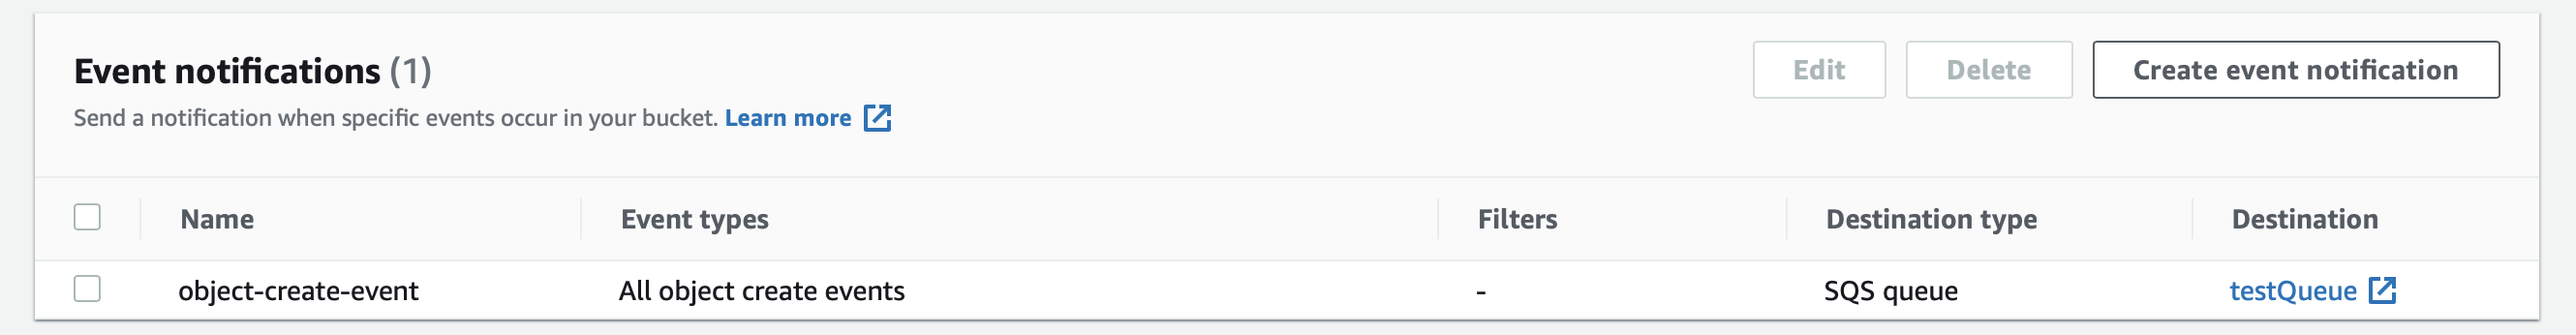
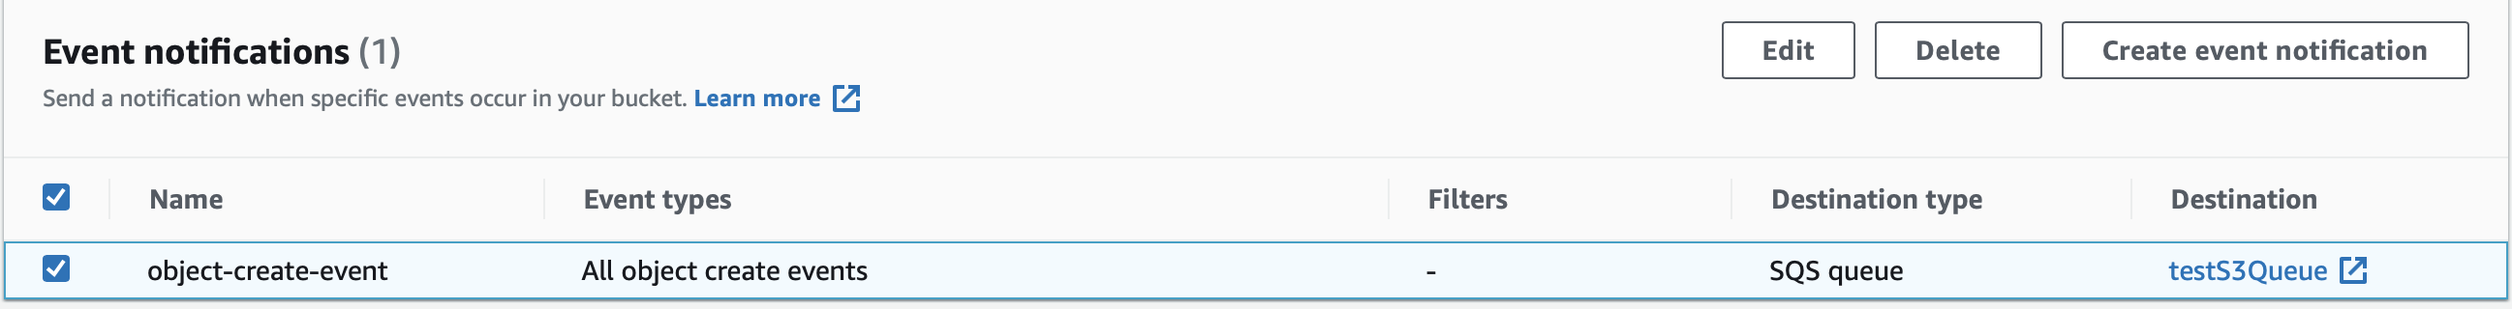
minor edits

diff --git a/_posts/2021-04-25-spring-cloud-aws-sqs.md b/_posts/2021-04-25-spring-cloud-aws-sqs.md
@@ -28,7 +28,7 @@ The producer will continue to function normally even if the consumer application
 
 The SQS queue used for storing messages is highly scalable, and reliable with its storage distributed across multiple servers. The SQS queue can be of two types: 
 1. **Standard**:  Standard queues have maximum throughput, best-effort ordering, and at least once delivery. 
-2. **First In First Out(FIFO)**:  FIFO queues guarantee the messages to be processed exactly once by the receiver, in the order that they are sent.
+2. **First In First Out(FIFO)**: When a high volume of transactions are received, messages might get delivered more than one once, which might require complex handling of message sequence. For this scenario, we use FIFO queues where the messages are delivered in a `First in first out` manner. The message is delivered only once and is made available only till the consumer processes it. After the message is processed by the consumer, it is deleted thereby preventing chances of duplicate processing.
 
 Spring Cloud AWS is built as a collection of modules, with each module being responsible for providing integration with an AWS Service.  
 
@@ -173,11 +173,10 @@ public QueueMessagingTemplate queueMessagingTemplate(
 ```
 Then, we can send the messages using the `convertAndSend` method:
 ```java
+@Slf4j
 @Service
 public class MessageSenderWithTemplate {
   private static final String TEST_QUEUE = "testQueue";
-
-  private static final Logger logger = LoggerFactory.getLogger(MessageSenderWithTemplate.class);
 
   @Autowired
   private QueueMessagingTemplate messagingTemplate;
@@ -195,17 +194,45 @@ public class MessageSenderWithTemplate {
 ```
 In this example, we first create a message with the `MessageBuilder` class, similar to our previous example, and use the `convertAndSend` method to send the message to the queue.
 
+### Sending Message to FIFO Queue
+For sending a message to a FIFO Queue, we need to add two fields: `messageGroupId` and `messageDeduplicationId` in the header like in the example below:
+
+```java
+@Slf4j
+@Service
+public class MessageSenderWithTemplate {
+    private static final String TEST_QUEUE = "testQueue";
+
+    @Autowired
+    private QueueMessagingTemplate messagingTemplate;
+  
+    public void sendToFifoQueue(final String messagePayload, final String messageGroupID, final String messageDedupID) {
+      
+          Message<String> msg = MessageBuilder.withPayload(messagePayload)
+              .setHeader("message-group-id", messageGroupID)
+              .setHeader("message-deduplication-id", messageDedupID)
+              .build();
+              messagingTemplate.convertAndSend(TEST_QUEUE, msg);
+              log.info("message sent");
+    }  
+}
+
+```
+Here we are using the `MessageBuilder` class to add the two header fields required for creating a message for sending to a FIFO queue.
+
 ## Receiving a Message
 
-We need to check the SQS queue repeatedly for the availability of messages. Messages can be received in two ways from the SQS queue:
-1. using the receive methods of the `QueueMessagingTemplate`
-2. with annotation-driven listener endpoints. This is the more convenient way of receiving messages.
+Let us now look at how we can receive messages from an SQS queue. There are two ways to receive messages from SQS:
+1. **Short Polling**: Short polling returns immediately, even if the message queue being polled is empty. For short polling, we call the `receive` method of `QueueMessagingTemplate` in an infinite loop that regularly polls the queue. The `receive` method returns empty if there are no messages in the queue.
+2. **Long Polling**: long-polling does not return a response until a message arrives in the message queue, or the long poll times out. We do this with the `SQSListener` annotation.
 
- We annotate a method with `SqsListener` annotation for subscribing to a queue. The `SqsListener` annotation adds polling behavior to the method and also provides support for serializing and converting the received message to a Java object as shown here:
+In most cases, Amazon SQS Long-Polling is preferable to short polling since Long-polling requests let the queue consumers receive messages as soon as they arrive in the queue while reducing the number of empty responses returned.
+
+We annotate a method with `SqsListener` annotation for subscribing to a queue. The `SqsListener` annotation adds polling behavior to the method and also provides support for serializing and converting the received message to a Java object as shown here:
  ```java
+ @Slf4j
 @Service
 public class MessageReceiver {
-  private static final Logger logger = LoggerFactory.getLogger(MessageReceiver.class.getName());
 
   @SqsListener(value = "testQueue", deletionPolicy = SqsMessageDeletionPolicy.ON_SUCCESS)
   public void receiveMessage(String message, 
@@ -214,12 +241,12 @@ public class MessageReceiver {
   }
 }
  ```
-In this example, the SQS message payload is serialized and passed to our `receiveMessage` method. We have also defined the deletion policy `ON_SUCCESS` for acknowledging the message when no exception is thrown.
+In this example, the SQS message payload is serialized and passed to our `receiveMessage` method. We have also defined the deletion policy `ON_SUCCESS` for acknowledging the message when no exception is thrown. A deletion policy is used to define when a message must be deleted after the listener method is called. For an overview of the available deletion policies, refer to the Java documentation of [SqsMessageDeletionPolicy](https://javadoc.io/doc/org.springframework.cloud/spring-cloud-aws-messaging/2.1.3.RELEASE/org/springframework/cloud/aws/messaging/listener/SqsMessageDeletionPolicy.html).
 
 ## Working with Object Messages
 So far we have used payloads of type `string`. We can also send object payloads by serializing them to a JSON `string`. We do this by using the `MessageConverter` interface which defines a simple contract for conversion between Java objects and SQS messages. The default implementation is `SimpleMessageConverter` which unwraps the message payload if it matches the target type. 
 
-Let us define a model to represent a `signup` event:
+Let us define another SQS queue named `testObjectQueue` and define a model to represent a `signup` event:
 
 ```java
 @Data
@@ -238,7 +265,7 @@ Now let us change our `receiveMessage` method to receive the `SignupEvent` :
 @Service
 public class MessageReceiver {
 
-  @SqsListener(value = "testQueue", deletionPolicy = SqsMessageDeletionPolicy.ON_SUCCESS)
+  @SqsListener(value = "testObjectQueue", deletionPolicy = SqsMessageDeletionPolicy.ON_SUCCESS)
   public void receiveMessage(final SignupEvent message, 
     @Header("SenderId") String senderId) {
     log.info("message received {} {}",senderId,message);
@@ -332,11 +359,11 @@ public class CustomSqsConfiguration {
 ```
 Here we have modified our earlier configuration by setting `strictContentTypeMatch` property in the `MappingJackson2MessageConverter` object to `false`.
 
-Let us add a listener class for receiving the notification messages sent by an AWS S3 bucket when certain configured events occur in the bucket. We can enable certain AWS S3 bucket events to send a notification message to a destination like the SQS queue when the events occur. Before running this example, we will create an S3 bucket and attach a notification event as shown below: 
+Let us add a listener class for receiving the notification messages sent by an AWS S3 bucket when certain configured events occur in the bucket. We can enable certain AWS S3 bucket events to send a notification message to a destination like the SQS queue when the events occur. Before running this example, we will create an SQS queue and S3 bucket and attach a notification event as shown below: 
 
 ![s3-notification-event](/assets/img/posts/aws-sqs-spring-cloud/s3-notification-event.png)
 
-Here we can see a notification event that will get triggered when an object is uploaded to the S3 bucket. This notification event is configured to send a message to our SQS queue `testQueue`. 
+Here we can see a notification event that will get triggered when an object is uploaded to the S3 bucket. This notification event is configured to send a message to our SQS queue `testS3Queue`. 
 
 Our class `S3EventListener` containing the listener method which will receive this event from S3 looks like this:
 ```java
@@ -345,7 +372,7 @@ Our class `S3EventListener` containing the listener method which will receive th
 @Service
 public class S3EventListener {
   
-  @SqsListener(value = "testQueue", deletionPolicy = SqsMessageDeletionPolicy.ON_SUCCESS)
+  @SqsListener(value = "testS3Queue", deletionPolicy = SqsMessageDeletionPolicy.ON_SUCCESS)
   public void receive(S3EventNotification s3EventNotificationRecord) {
     S3EventNotification.S3Entity s3Entity = s3EventNotificationRecord.getRecords().get(0).getS3();
     String objectKey = s3Entity.getObject().getKey();
